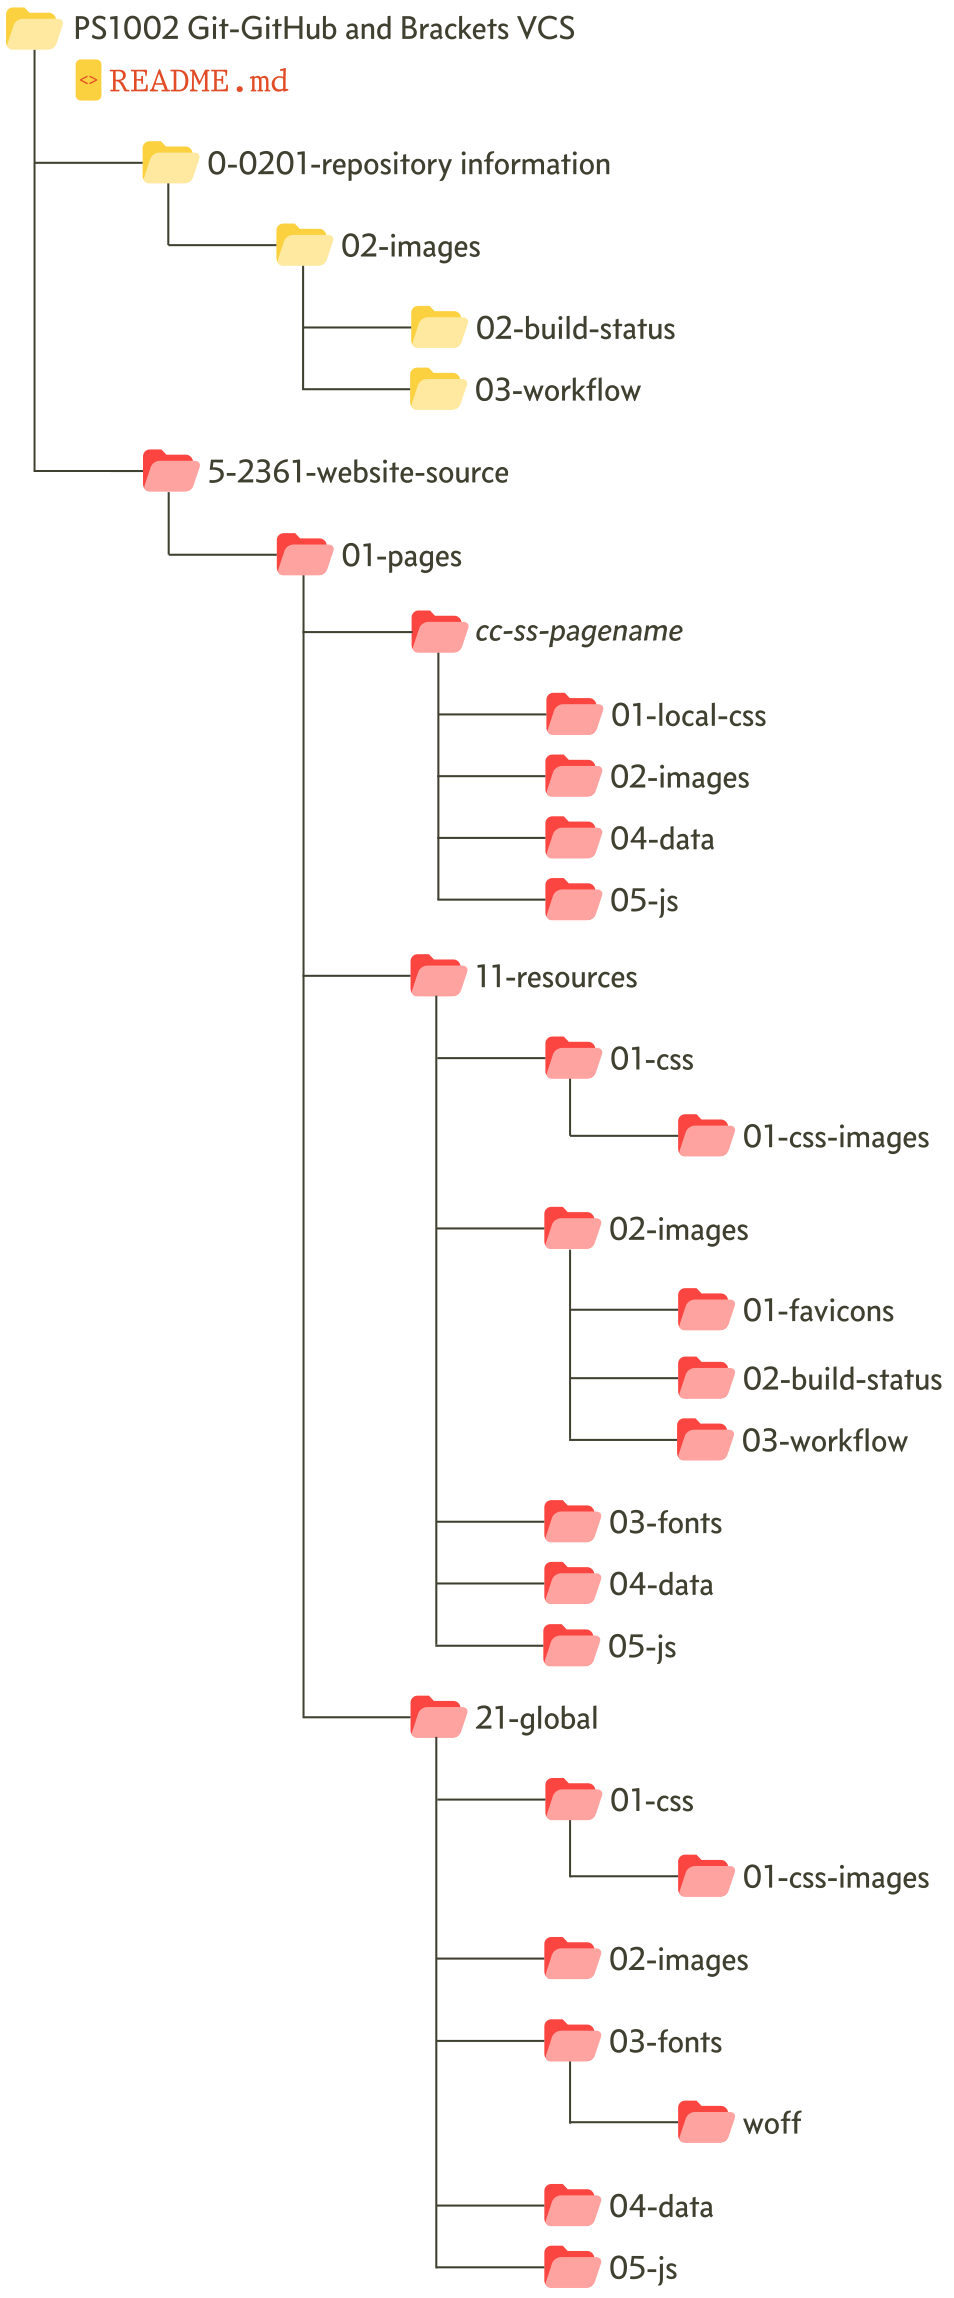
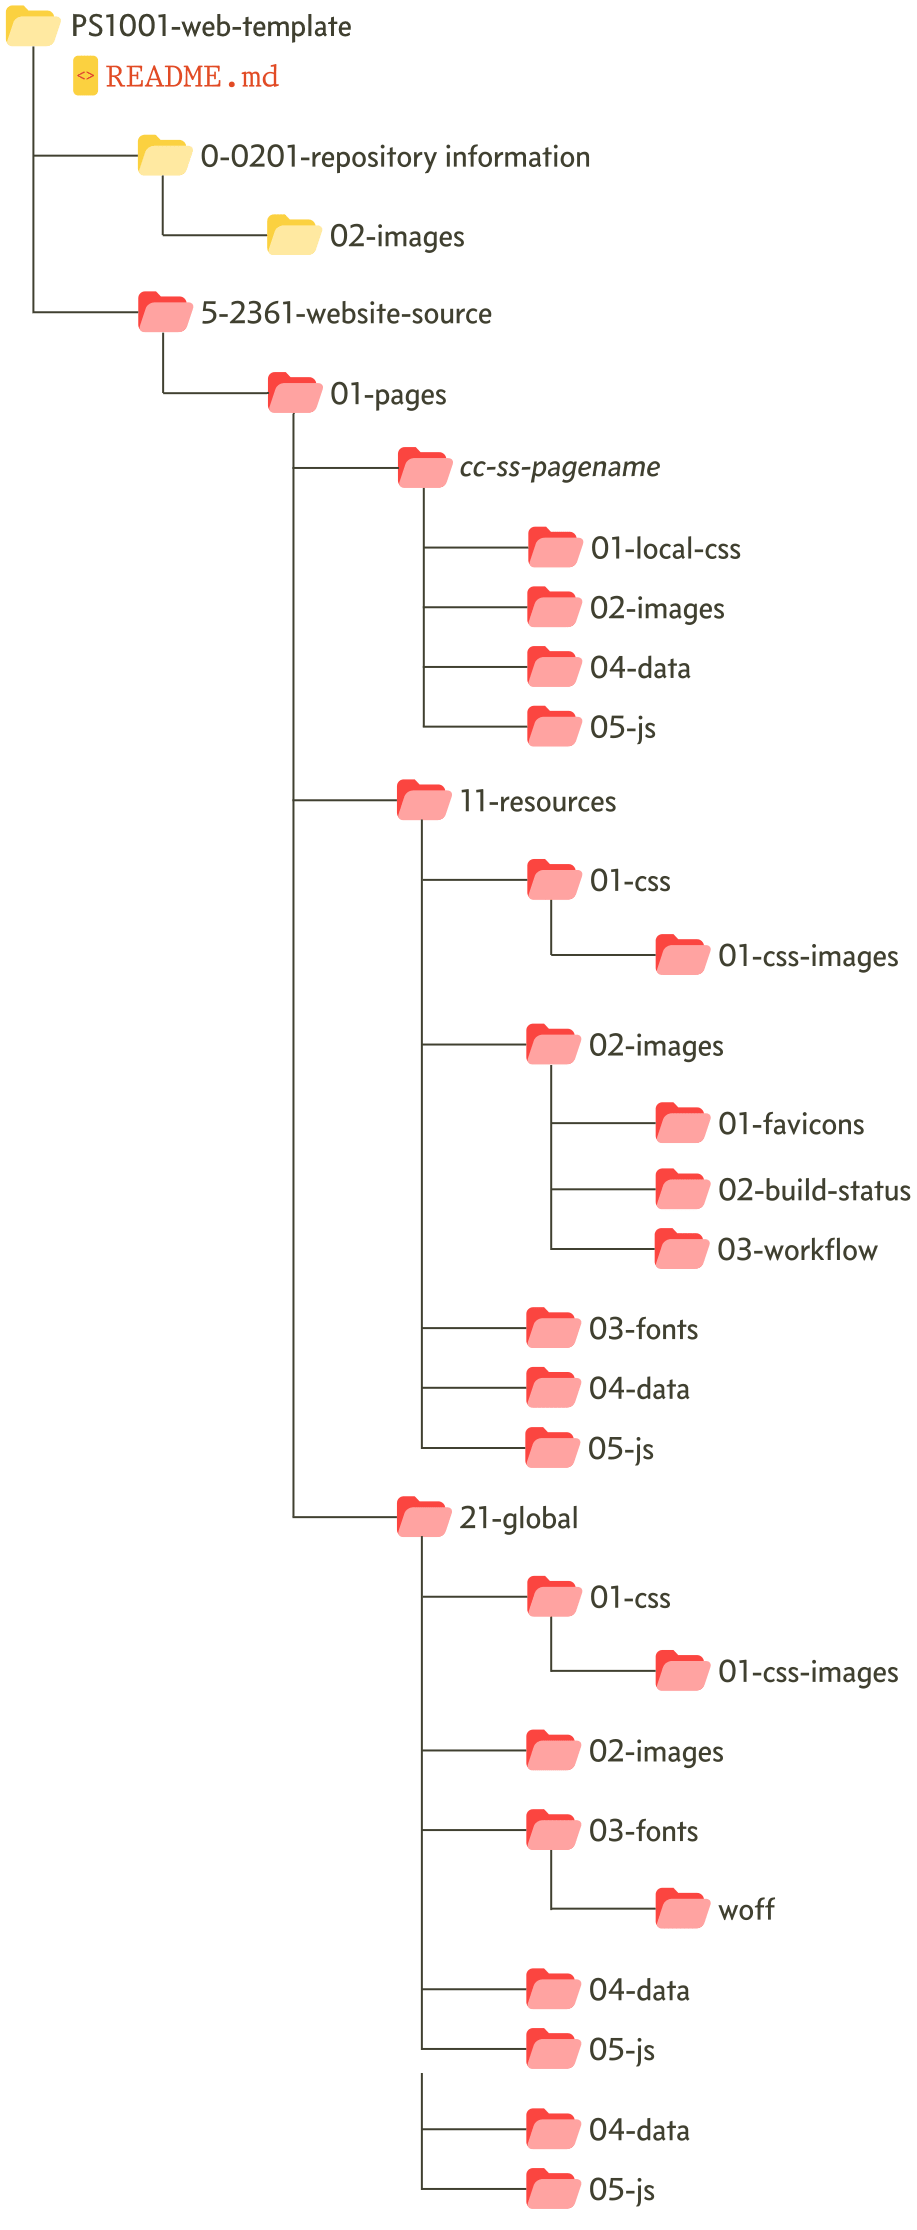
D03 - Development
Repository-info.md added

diff --git a/0-0201-repository-information/repository-info.md b/0-0201-repository-information/repository-info.md
@@ -2,19 +2,19 @@
 
 The current version of this file is:
 
-<img src="http://practicalseries.com/1000-home/11-resources/02-images/02-build-status/1002-vcs/bs-P09.svg">
+<img src="http://practicalseries.com/1000-home/11-resources/02-images/02-build-status/1002-web/bs-D03.svg">
 
 
 # Repository basic information
 Both the remote and the local repositories are called:
 
-```PS1002-brackets-git-and-github-vcs```
+```PS1001-web-template```
 
 The repository description is:
 
-**The Practical Series website explaining how the Git & GitHub version control system can be made to work from within the development environment of the Brackets text editor using the Brackets-Git extension**.
+**The Practical Series website explaining how to develop responsive website (using HTML 5 and CSS 3) that looks good, is easy to navigate and has complex elements such as formulae, code fragments and lightbox imagery. The website itself contains a reusable template de-signed to hold whatever document or publication is directed at it. It’s well set out, has a range of nice and consistent styles and navigations that can be used with almost no effort.**.
 
-The main purpose of the repository is to hold the VCS website content. The repository does however hold some additional files: various workflow diagrams showing the commit points and branches throughout the history of the repository.
+The main purpose of the repository is to hold the web template website content (web pages, images, example code &c.) and the down-loadable template itself. The repository also holds some additional information: various workflow diagrams showing the commit points and branches throughout the history of the repository.
 
 *Note: The Workflow Diagrams are maintained outside the repository but are copied in at specific commit points to maintain the accuracy of the repository.*
 
@@ -39,7 +39,7 @@ The repository is associates with the following organisations
 #### Author’s note to himself
 The local repository is stored on the primary NAS drive and has the location:
 
-```\\41 Pa_Archive\2500 Git Projects\PS1002 Git-GitHub and Brackets VCS```
+```\\41 Pa_Archive\2500 Git Projects\PS1001-web-template```
 
 The repository folder structure is:
 
@@ -51,7 +51,7 @@ The red folders are the publishable website (the bit that has to be uploaded to 
 
 The full offline version of the live website is stored on the primary NAS drive and has the location:
 
-```\\01 Pa_Clavis\2230 PS Projects\PS1000 - PS Website LIVE```
+```\\01 Pa_Clavis\2230 PS Projects\PS0500-PS Website LIVE```
 
 The high level folder structure for the website is:
 
@@ -65,16 +65,16 @@ To update the live website with the repository website, the entire contents of t
 
 Must be copied to the live website folder:
 
-```1002-vcs```
+```1001-web```
 
-The contents of the ```1002-vcs``` can be completely deleted prior to the repository folder files being copied in.
+The contents of the ```1001-web``` can be completely deleted prior to the repository folder files being copied in.
 
-**NO INFORMATION SHOULD EVER BE MOVED FROM PS1000 TO THE REPOSITORY**
+**NO INFORMATION SHOULD EVER BE MOVED FROM PS0500 TO THE REPOSITORY**
 
 # Non-repository folders
 The latest copy of the website Functional Specification Word Document (it contains the Word copy of the website content) is held in the project folder: 
 
-```\\01 Pa_Clavis\2230 PS Projects\PS1002 - Git-GitHub and Brackets VCS```
+```\\01 Pa_Clavis\2230 PS Projects\PS1001 - Web Template``
 
 This is the primary project storage location. 
 

diff --git a/README.md b/README.md
@@ -3,7 +3,7 @@
 ###### A series of technical documents for engineers (and others)
 
 
-# A Website Template for Online Publications <img src="http://practicalseries.com/1000-home/11-resources/02-images/02-build-status/1001-web/bs-D01.svg">
+# A Website Template for Online Publications <img src="http://practicalseries.com/1000-home/11-resources/02-images/02-build-status/1001-web/bs-D03.svg">
 
 <p align="center">
     <img width="300px" src="0-0201-repository-information/01-images/logo-lrg-min.png">
@@ -25,7 +25,7 @@ Development work always takes place on a separate branch. Development branches a
 
 | Branch             | Revision
 | ------------------ | --------------------------------------
-| master             | <img src="http://practicalseries.com/1000-home/11-resources/02-images/02-build-status/1001-web/bs-D01.svg">
+| master             | <img src="http://practicalseries.com/1000-home/11-resources/02-images/02-build-status/1001-web/bs-D03.svg">
 
 ## Contents
 
@@ -101,7 +101,7 @@ The following table contains the development branch abbreviations and associated
 ## Workflow status
 
 The following shows the project status as workflow diagrams:
-<img src="http://practicalseries.com/1000-home/11-resources/02-images/02-build-status/1002-web/wf-D01.svg">
+<img src="http://practicalseries.com/1000-home/11-resources/02-images/02-build-status/1002-web/wf-D03.svg">
 
 ## Additional information
 
